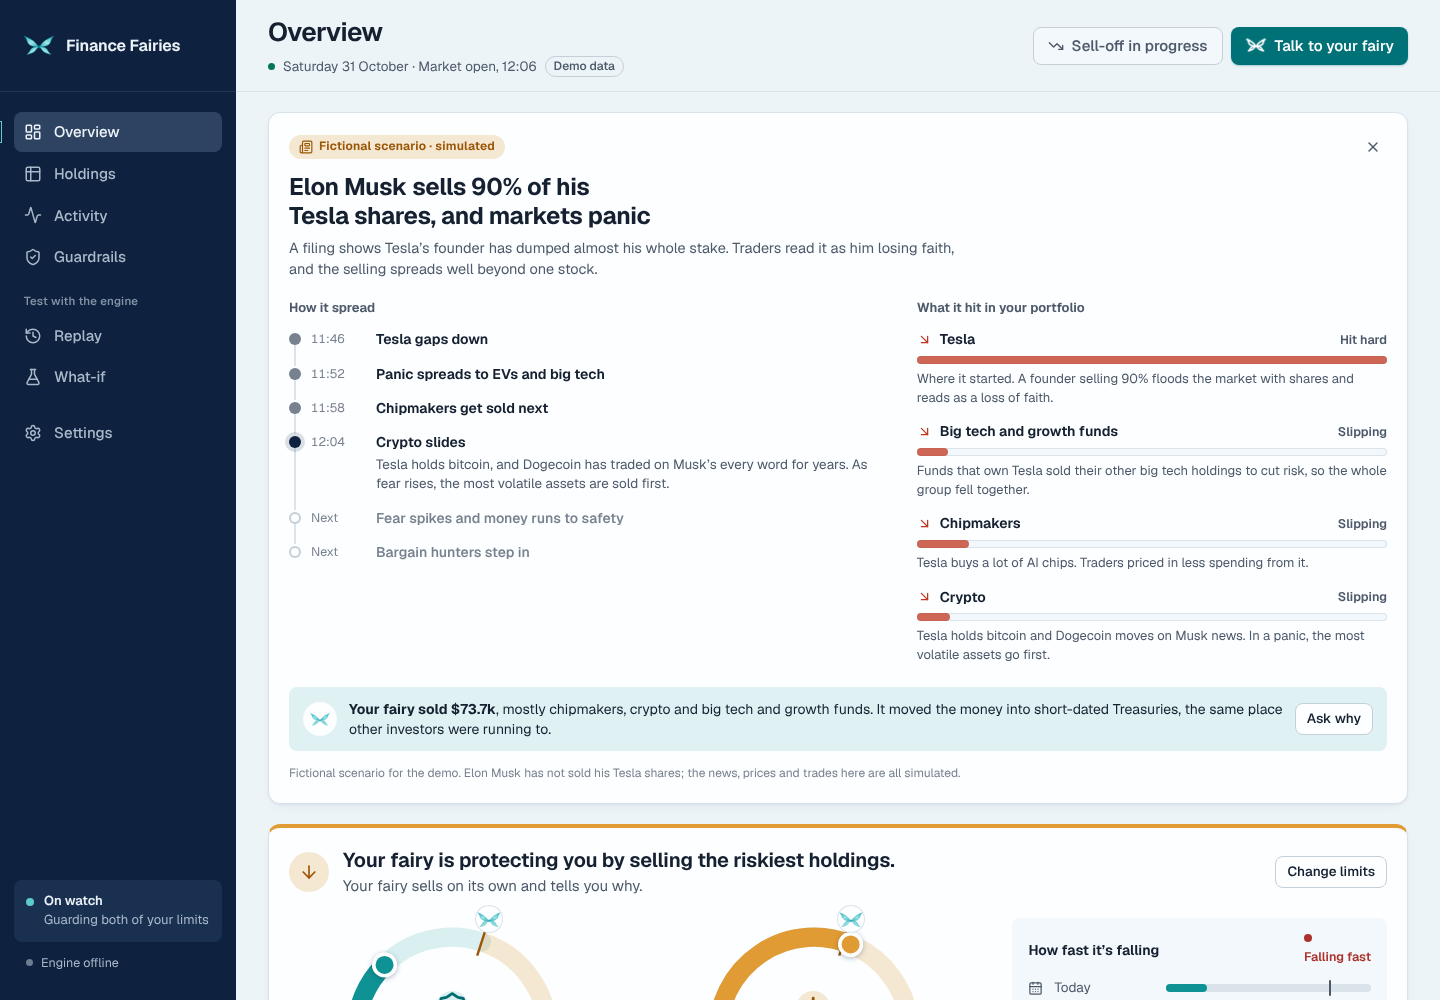
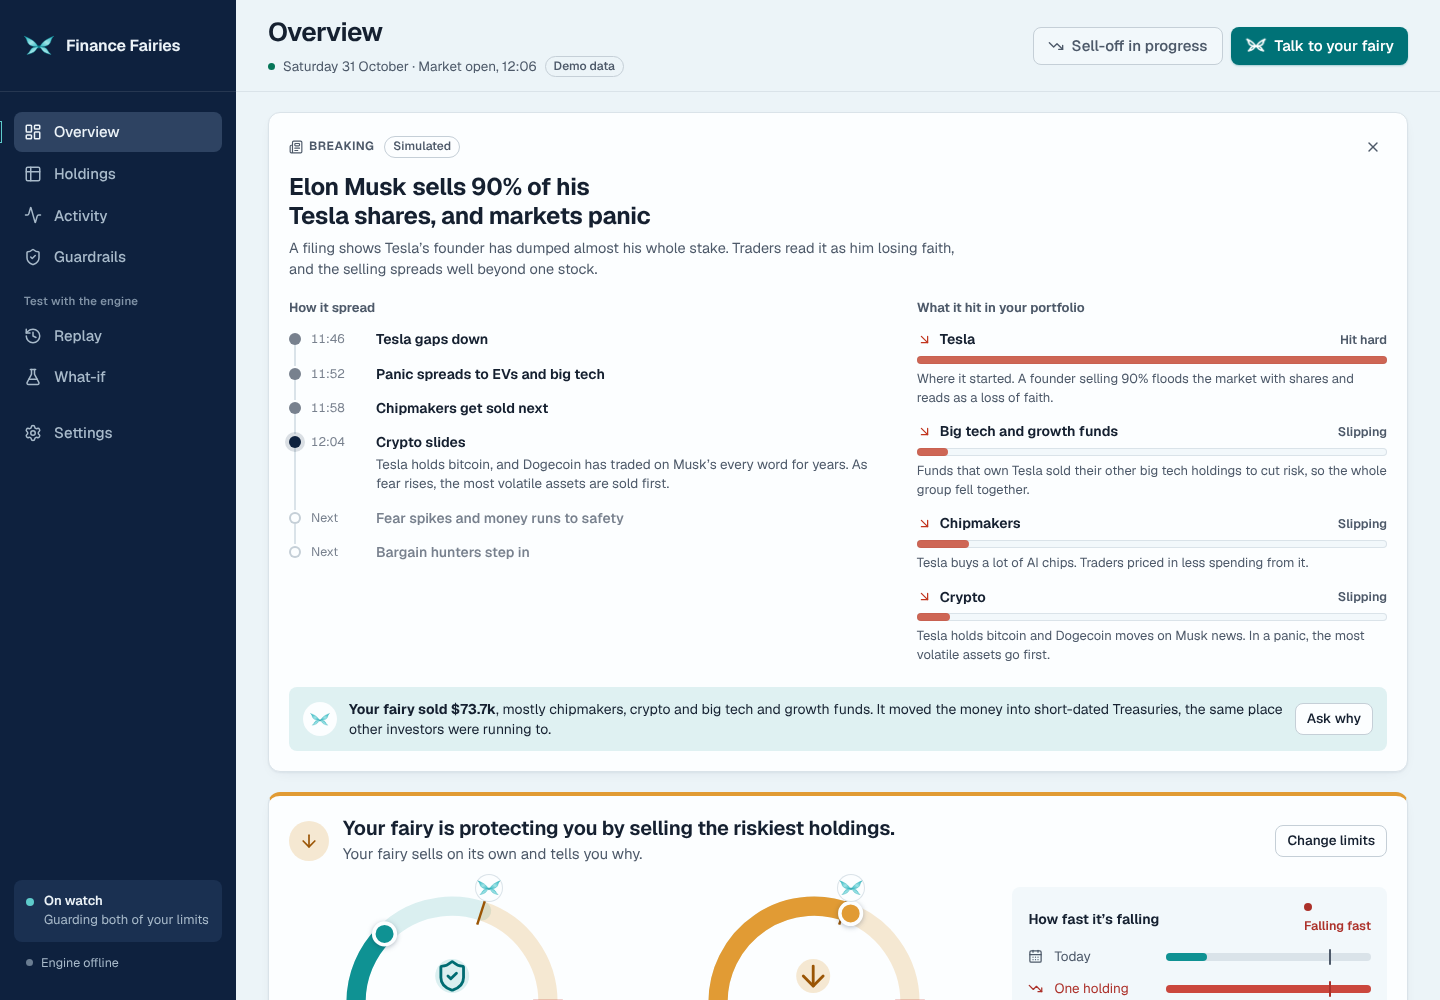
Drop the fictional-scenario label and disclaimer from the story card
Adnan asked for no special label. The card now carries the app's usual
small "Simulated" tag, and the disclaimer line, the feed disclaimer and
the "made-up news" voice line are gone.

Claude-Session: https://claude.ai/code/session_01FU6y88B2gSegyi2jD1wRyr

Changed region(s): [[0.1875, 0.744, 0.9688, 1.0], [0.1875, 0.124, 0.375, 0.186]]

diff --git a/src/components/ScenarioStory.tsx b/src/components/ScenarioStory.tsx
@@ -68,7 +68,7 @@ function HitRow({ g, move, haven, scale }: { g: HitGroup; move: number; haven?: 
 
 /**
  * The story behind a simulated sell-off: the headline, how the panic spread, which of the
- * user's holdings it reached and why, and what the fairy did about it. Always labelled as fiction.
+ * user's holdings it reached and why, and what the fairy did about it. Carries the app's usual simulated tag.
  */
 export function ScenarioStory({ s }: { s: Snapshot }) {
   const ui = useUI()
@@ -91,7 +91,10 @@ export function ScenarioStory({ s }: { s: Snapshot }) {
     <section className="panel story" aria-labelledby="story-h">
       <header className="story-head">
         <p className="story-kicker">
-          <Newspaper size={14} aria-hidden /> Fictional scenario · simulated
+          <Newspaper size={14} aria-hidden /> Breaking
+          <span className="demo-tag" title="This news, and the prices and trades it causes, are simulated">
+            Simulated
+          </span>
         </p>
         <button className="icon-btn sm" onClick={() => sim.clearScenario()} aria-label="Hide this story" title="Hide this story">
           <X size={16} aria-hidden />
@@ -159,7 +162,6 @@ export function ScenarioStory({ s }: { s: Snapshot }) {
         )}
       </div>
 
-      <p className="story-note">{sc.disclaimer}</p>
     </section>
   )
 }

diff --git a/src/engine/scenarios.ts b/src/engine/scenarios.ts
@@ -1,7 +1,7 @@
 import type { Holding, Sector } from './types'
 
 /**
- * Story-driven sell-offs for the demo. Each scenario is fiction: a headline, the beats of how
+ * Story-driven sell-offs for the demo (simulated): a headline, the beats of how
  * the panic spread (each beat changes which sectors and symbols are falling), the groups of
  * holdings it hits and why, and where the money ran. The sim plays the beats on a tick clock.
  * Add a scenario by adding an entry to SCENARIOS; nothing else needs to change.
@@ -55,7 +55,6 @@ export interface Scenario {
   haven: HitGroup
   /** one line on where the fairy's sales went, and why that fits this story */
   fairy: string
-  disclaimer: string
 }
 
 const musk: Scenario = {
@@ -155,7 +154,6 @@ const musk: Scenario = {
     why: 'Where the money ran. Prices rose as investors looked for somewhere safe.',
   },
   fairy: 'It moved the money into short-dated Treasuries, the same place other investors were running to.',
-  disclaimer: 'Fictional scenario for the demo. Elon Musk has not sold his Tesla shares; the news, prices and trades here are all simulated.',
 }
 
 export const SCENARIOS: Record<string, Scenario> = { [musk.id]: musk }

diff --git a/src/engine/ask.ts b/src/engine/ask.ts
@@ -68,7 +68,7 @@ export function localAnswer(q: string, s: Snapshot): Answer {
       const beat = state.done ? sc.after : sc.beats[state.beat]
       return {
         source: 'agent',
-        text: `In this simulated scenario, ${sc.headline.replace(/^./, (c) => c.toLowerCase())}. ${beat.text} You’re ${pct(change)} today. Remember, this is made-up news for the demo.`,
+        text: `In this simulated scenario, ${sc.headline.replace(/^./, (c) => c.toLowerCase())}. ${beat.text} You’re ${pct(change)} today.`,
       }
     }
     const moves = sim.sectorMoves('open')
@@ -127,7 +127,6 @@ function scenarioContext() {
   return {
     simulatedScenario: {
       fictional: true,
-      note: sc.disclaimer,
       headline: sc.headline,
       storySoFar: sc.beats.slice(0, state.beat + 1).map((b) => `${b.title}: ${b.text}`).concat(state.done ? [`${sc.after.title}: ${sc.after.text}`] : []),
       hit: sc.hits.filter((g) => g.from <= state.beat).map((g) => `${g.label}: ${g.why}`),

diff --git a/src/components/story.css b/src/components/story.css
@@ -14,13 +14,16 @@
   display: inline-flex;
   align-items: center;
   gap: 6px;
-  padding: 3px 10px;
-  border-radius: 999px;
   font-size: 12px;
   font-weight: 650;
-  letter-spacing: 0.02em;
-  color: var(--trim-hi);
-  background: var(--trim-soft);
+  letter-spacing: 0.04em;
+  text-transform: uppercase;
+  color: var(--text-2);
+}
+.story-kicker .demo-tag {
+  margin-left: 4px;
+  text-transform: none;
+  letter-spacing: 0;
 }
 .story-head .icon-btn {
   width: 30px;
@@ -231,11 +234,6 @@
 }
 .story-fairy .btn {
   flex: none;
-}
-.story-note {
-  margin-top: 8px;
-  font-size: 12px;
-  color: var(--text-3);
 }
 
 @media (max-width: 900px) {

diff --git a/src/engine/sim.ts b/src/engine/sim.ts
@@ -109,12 +109,11 @@ export class Simulation {
       id: nid(),
       kind: 'market',
       t: this.now,
-      title: `Simulated scenario: ${sc.headline}`,
+      title: sc.headline,
       summary: `${sc.dek} I’m watching your limits closely.`,
       why: [
         ...sc.beats.slice(0, 1).map((b) => b.text),
         `If it spreads the way panics usually do, ${listOf(sc.hits.slice(1).map((g) => g.noun))} are next. Together with ${sc.hits[0].noun} that’s ${pct(exposed, 0, false)} of your money.`,
-        sc.disclaimer,
       ],
       value: this.value(),
     })
